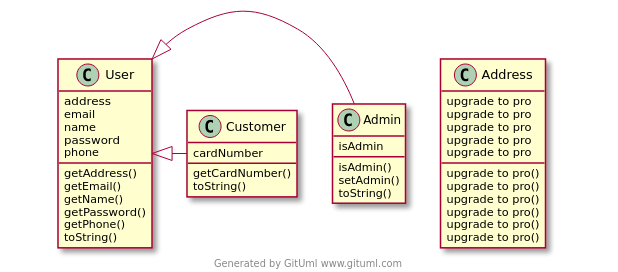
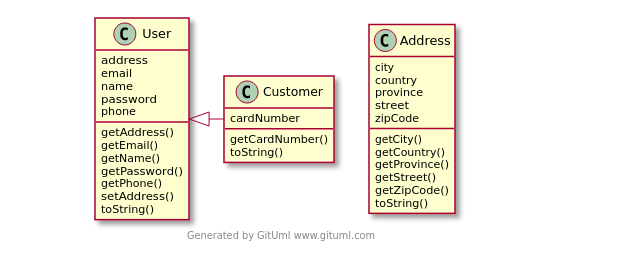
changed code

diff --git a/exp1/User.java b/exp1/User.java
@@ -1,5 +1,9 @@
 // package exp1;
 
+enum CustomerType {
+	ORDINARY, VIP
+}
+
 class User {
 	private String name;
 	private String password;
@@ -90,6 +94,7 @@ class Address {
 
 class Customer extends User {
 	private String cardNumber;
+	private CustomerType type;
 
 	public Customer(String name, String password, String email, String phone, Address address, String cardNumber) {
 		super(name, password, email, phone, address);
@@ -98,6 +103,10 @@ class Customer extends User {
 
 	public String getCardNumber() {
 		return cardNumber;
+	}
+
+	public CustomerType getType() {
+		return type;
 	}
 
 	@Override
